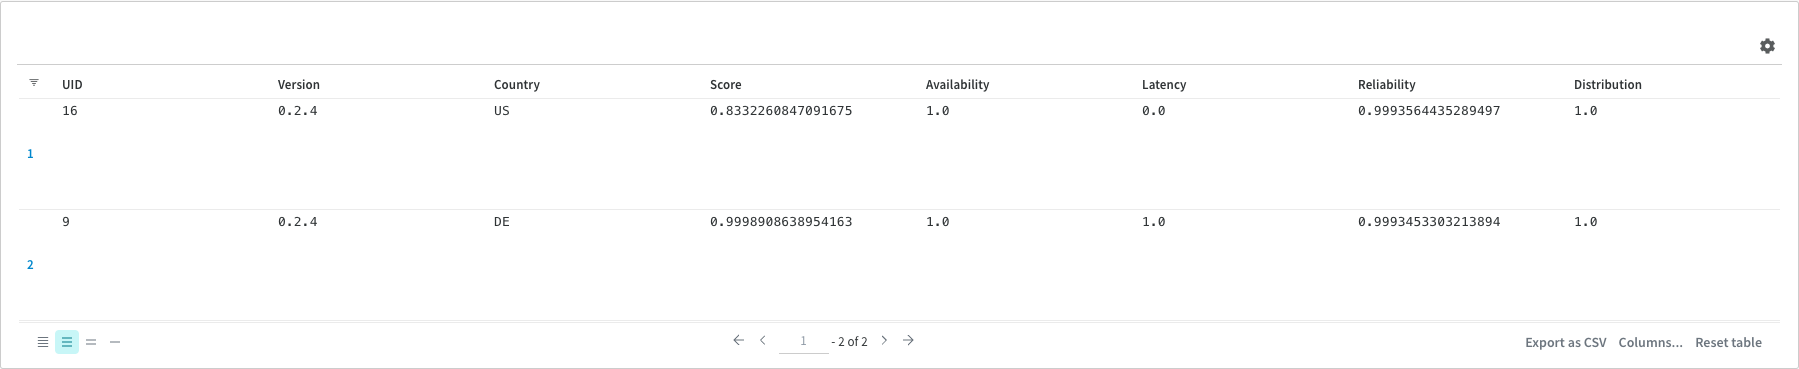
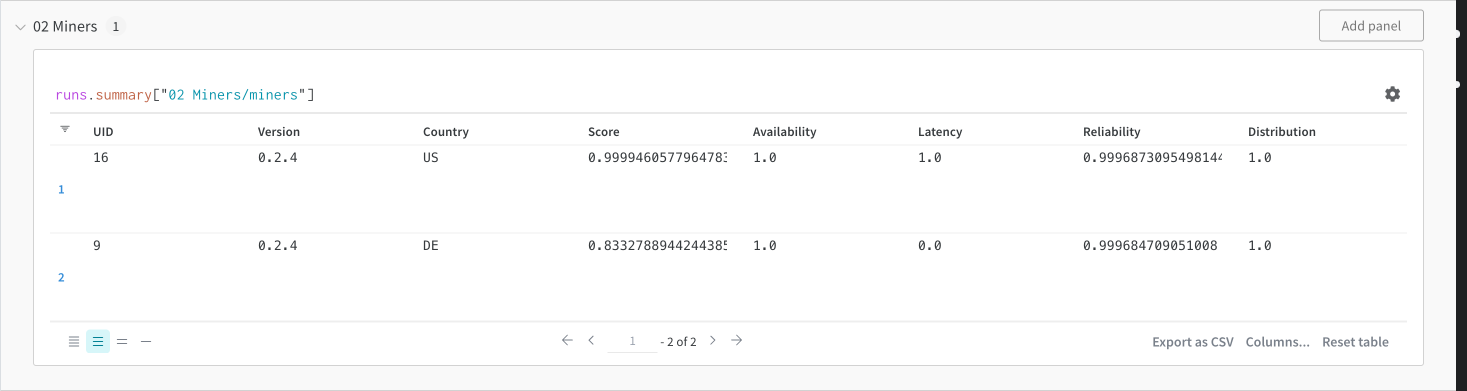
clean add the last metrics

diff --git a/subnet/validator/state.py b/subnet/validator/state.py
@@ -16,6 +16,7 @@
 # DEALINGS IN THE SOFTWARE.
 
 # Utils for checkpointing and saving the model.
+import os
 import torch
 import copy
 import wandb
@@ -164,7 +165,7 @@ def log_miners_table(self, event: EventSchema, commit=False):
         data=data,
     )
 
-    self.wandb.log({"miners": miners}, commit=commit)
+    self.wandb.log({"02 Miners/miners": miners}, commit=commit)
 
 
 def log_distribution(self, event: EventSchema, commit=False):
@@ -178,7 +179,7 @@ def log_distribution(self, event: EventSchema, commit=False):
     table = wandb.Table(data=data, columns=["country", "count"])
     wandb.log(
         {
-            "distribution": wandb.plot.bar(
+            "03 Distribution/distribution": wandb.plot.bar(
                 table, "country", "count", title="Miners Distribution"
             )
         },
@@ -196,12 +197,47 @@ def log_score(self, name: str, event: EventSchema, commit=False):
         data[f"{event.uids[idx]}"] = score
 
     # Create the graph
-    self.wandb.log({f"{name}_score": data}, commit=commit)
+    self.wandb.log({f"04 Scores/{name}_score": data}, commit=commit)
+
+
+def log_moving_averaged_score(self, event: EventSchema, commit=False):
+    '''
+    Create a graph showing the moving score for each miner over time
+    '''
+    # Build the data for the metric
+    data = {}
+    for idx, (score) in enumerate(event.moving_averaged_scores):
+        if self.metagraph.uids[idx] not in event.uids:
+            continue
+
+        data[f"{self.metagraph.uids[idx]}"] = score
+
+    # Create the graph
+    self.wandb.log({"04 Scores/moving_averaged_score": data}, commit=commit)
+
+
+def log_completion_times(self, event: EventSchema, commit=False):
+    '''
+    Create a graph showing the time to process the challenge over time
+    '''
+    # Build the data for the metric
+    data = {}
+    for idx, (time) in enumerate(event.completion_times):
+        data[f"{event.uids[idx]}"] = time
+
+    # Create the graph
+    self.wandb.log({"05 Miscellaneous/completion_times": data}, commit=commit)
 
 
 def log_event(self, event: EventSchema):
     # Log the event to wandb
     if not self.config.wandb.off and self.wandb is not None:
+        # Add overview metrics
+        self.wandb.log({"01 Overview/best_uid": event.best_uid}, commit=False)
+        self.wandb.log(
+            {"01 Overview/step_process_time": event.step_length}, commit=False
+        )
+
         # Add the miner table
         log_miners_table(self, event)
 
@@ -214,10 +250,10 @@ def log_event(self, event: EventSchema):
         log_score(self, "latency", event)
         log_score(self, "reliability", event)
         log_score(self, "distribution", event)
+        log_moving_averaged_score(self, event)
 
-        # Add the rest of the metrics
-        wandb_event = EventSchema.from_dict(event.__dict__)
-        self.wandb.log(asdict(wandb_event))
+        # Add miscellaneous
+        log_completion_times(self, event, True)
 
 
 def init_wandb(self, reinit=False):
@@ -294,8 +330,15 @@ def init_wandb(self, reinit=False):
             run_local_path = f"{wandb_base}/run-{output_datetime_str}-{run.id}"
 
             # Remove local run
-            shutil.rmtree(run_local_path)
-            bt.logging.debug(f"[Wandb] Run {run.name} removed locally {run_local_path}")
+            if os.path.exists(run_local_path):
+                shutil.rmtree(run_local_path)
+                bt.logging.debug(
+                    f"[Wandb] Run {run.name} removed locally {run_local_path}"
+                )
+            else:
+                bt.logging.warning(
+                    f"[Wandb] Run local directory {run_local_path} does not exist. Please check it has been removed."
+                )
 
             # Remove remote run
             run.delete(True)

diff --git a/subnet/validator/event.py b/subnet/validator/event.py
@@ -24,8 +24,8 @@ class EventSchema:
     successful: List[bool]  # List of whether or not the task was successful or not
     completion_times: List[float]  # List of completion times for a given task
     block: float  # Current block at given step
-    uids: List[int]  # Queried uids
-    countries: List[int]  # Queried countries
+    uids: Optional[List[int]]  # Queried uids
+    countries: Optional[List[int]]  # Queried countries
     step_length: float  # Elapsed time between the beginning of a run step to the end of a run step
     best_uid: str  # Best completion for given task
     best_hotkey: str  # Best hotkey for given task
@@ -35,30 +35,7 @@ class EventSchema:
     distribution_scores: List[float]  # list of distribution score
 
     # Reward data
-    rewards: List[float]  # Reward vector for given step
+    rewards: Optional[List[float]]  # Reward vector for given step
 
     # Weights data and moving averages
-    set_weights: Optional[List[List[float]]] = None
-    moving_averaged_scores: Optional[List[float]] = None
-
-    @staticmethod
-    def from_dict(event_dict: dict) -> "EventSchema":
-        """Converts a dictionary to an EventSchema object."""
-
-        return EventSchema(
-            successful=event_dict["successful"],
-            completion_times=event_dict["completion_times"],
-            block=event_dict["block"],
-            uids=event_dict["uids"],
-            step_length=event_dict["step_length"],
-            best_uid=event_dict["best_uid"],
-            best_hotkey=event_dict["best_hotkey"],
-            countries=event_dict["countries"],
-            rewards=event_dict["rewards"],
-            availability_scores=event_dict["availability_scores"],
-            latency_scores=event_dict["latency_scores"],
-            reliability_scores=event_dict["reliability_scores"],
-            distribution_scores=event_dict["distribution_scores"],
-            set_weights=event_dict["set_weights"],
-            moving_averaged_scores=event_dict["moving_averaged_scores"],
-        )
+    moving_averaged_scores: List[float] = None

diff --git a/subnet/validator/challenge.py b/subnet/validator/challenge.py
@@ -89,6 +89,7 @@ async def challenge_data(self):
         latency_scores=[],
         reliability_scores=[],
         distribution_scores=[],
+        moving_averaged_scores=[],
         countries=[],
         block=self.subtensor.get_current_block(),
         uids=[],
@@ -244,7 +245,7 @@ async def challenge_data(self):
         )
         .to(self.device)
     )
-    bt.logging.trace(f"Scattered rewards: {scattered_rewards}")
+    bt.logging.trace(f"[{CHALLENGE_NAME}] Scattered rewards: {scattered_rewards}")
 
     # Update moving_averaged_scores with rewards produced by this step.
     # alpha of 0.2 means that each new score replaces 20% of the weight of the previous weights
@@ -252,7 +253,8 @@ async def challenge_data(self):
     self.moving_averaged_scores = alpha * scattered_rewards + (
         1 - alpha
     ) * self.moving_averaged_scores.to(self.device)
-    bt.logging.trace(f"Updated moving avg scores: {self.moving_averaged_scores}")
+    event.moving_averaged_scores = self.moving_averaged_scores.tolist()
+    bt.logging.trace(f"[{CHALLENGE_NAME}] Updated moving avg scores: {self.moving_averaged_scores}")
 
     # Display step time
     forward_time = time.time() - start_time

diff --git a/subnet/validator/config.py b/subnet/validator/config.py
@@ -246,7 +246,7 @@ def add_args(cls, parser):
         "--wandb.run_step_length",
         type=int,
         help="How many steps before we rollover to a new run.",
-        default=1,
+        default=360,
     )
     parser.add_argument(
         "--wandb.notes",

diff --git a/docs/wandb/wandb.md b/docs/wandb/wandb.md
@@ -77,6 +77,8 @@ wandb: Paste an API key from your profile and hit enter, or press ctrl+c to quit
 
 The default configuration is enough to have a good user experience so there is no real need to update it.
 
+> IMPORTANT: if you want to use wandb in testnet, please add to your validator command `--wandb.project_name` with the value `test-subvortex-team`. We separated the test and finney network for better experience.
+
 The default configuration will create a maximum of 2 runs (active + one archive) containing 360 steps of data. We chose 360, which corresponds to an epoch, and we believe it is sufficient to understand the trend and adjust the subtensor accordingly.
 
 Options
@@ -97,7 +99,19 @@ For miner, wandb is not needed so nothing to do here.
 
 # User Guide
 
-To access the wandb UI to get statistics about the miners, you can click on this [link](https://wandb.ai/eclipsevortext/subvortex-team) and choose the validator run you want.
+To access the wandb UI to get statistics about the miners, you can click on this folling links and choose the validator run you want
+
+- mainnet - [`subvortex-team`](https://wandb.ai/eclipsevortext/subvortex-team)
+- testnet - [`test-subvortex-team`](https://wandb.ai/eclipsevortext/test-subvortex-team)
+
+## Overview
+
+![overview](wandb-overview.png)
+
+The line plot provides valuable insights, including:
+
+- The performance of the best miner (UID) over time.
+- The step time evolution, representing the time taken for the validator to test all subtensors and compute the final score.
 
 ## Miners
 
@@ -116,9 +130,9 @@ The table display the list of miners with the following informations
 
 From that table, you can get a quick overview of how you are competing with others. You can sort the different columns to prioritize the desired information. We are still investigating if filtering is possible with Wandb.
 
-## Localisation
+## Distribution
 
-![localisation](wandb-distribution.png)
+![distribution](wandb-distribution.png)
 
 The histogram gives you the number of subtensors per country. Based on how the distribution score is computed, you can easily identify a country where there are no subtensors or a very small number, in order to maximize it.
 
@@ -129,6 +143,14 @@ The histogram gives you the number of subtensors per country. Based on how the d
 The line plot gives you the an evolution of the score through time. There is on line plot per score (final, availability, reliability, latency and distribution) and per miner.
 
 With these scores, you can understand how your miners compete with others and make the appropriate adjustments of your choice.
+
+## Miscellaneous
+
+![miscellaneous](wandb-miscellaneous.png)
+
+The line plot provides valuable insights, including:
+
+- The process time evolution, representing the time taken for the validator to get the current block from the subtensor. This time is a rwa time and does not include the tolerance based on the distance between the validator and the subtensor.
 
 ## Tips
 
